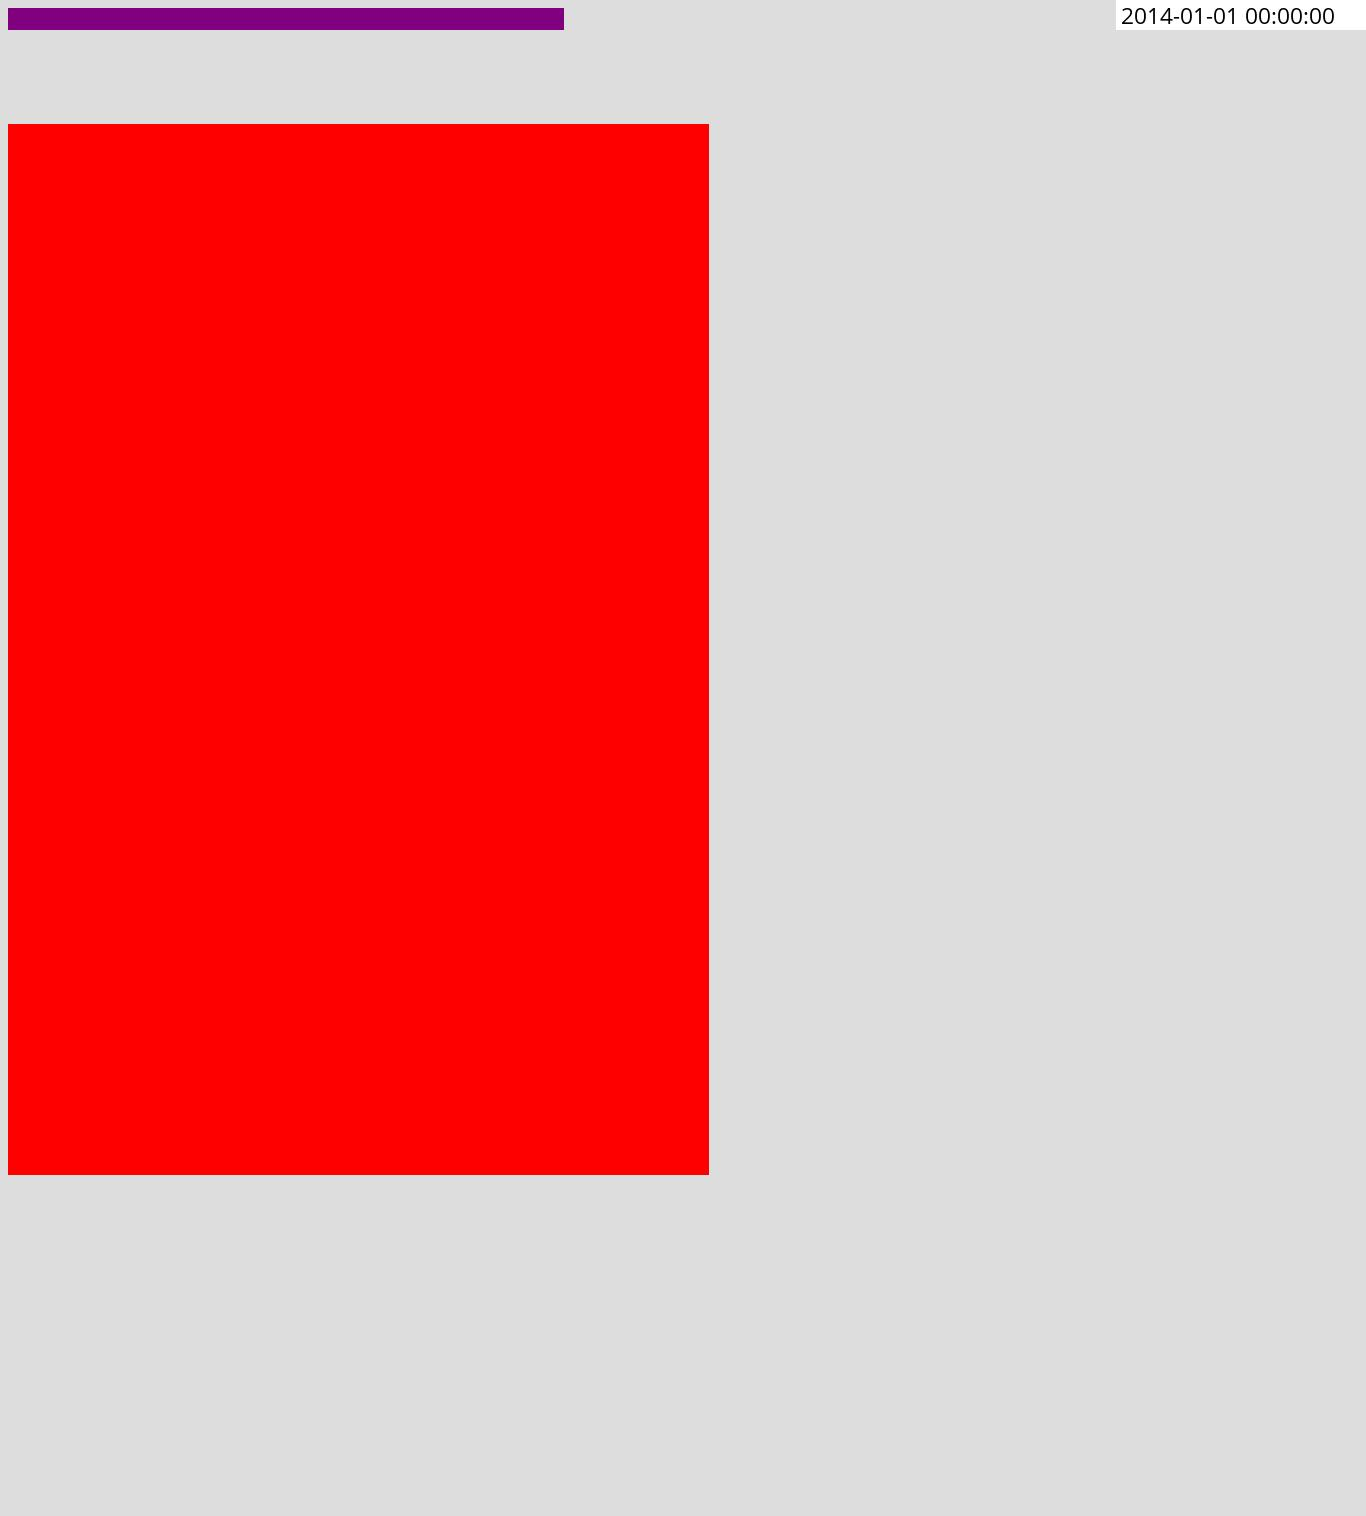
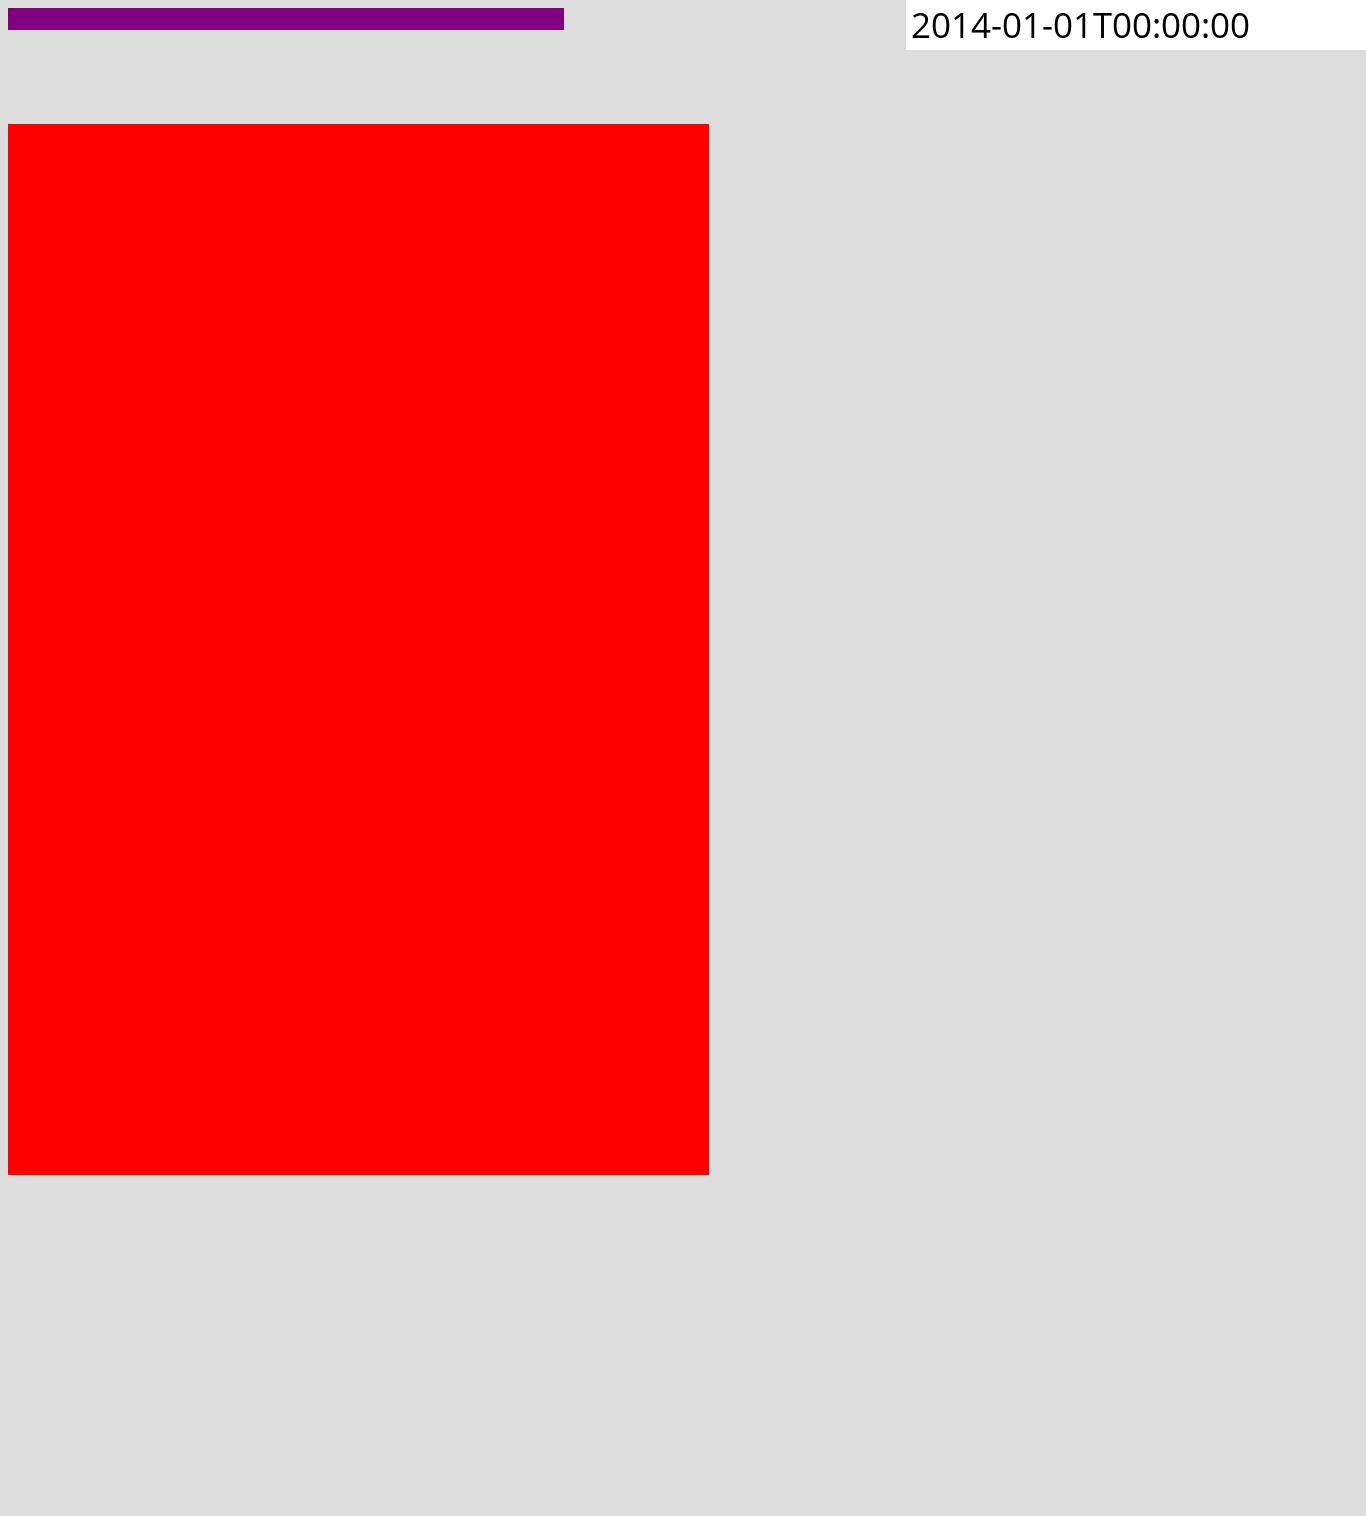
A bigger timestamp that is isoformat. Fixes #80.

Changed region(s): [[0.6457, 0.0, 1.0, 0.031]]

diff --git a/storytracker/analysis.py b/storytracker/analysis.py
@@ -64,7 +64,7 @@ class ArchivedURL(UnicodeMixin):
         self.this_directory = os.path.dirname(os.path.realpath(__file__))
         self.font = PILImageFont.truetype(
             os.path.join(self.this_directory, "fonts/OpenSans-Regular.ttf"),
-            22
+            35
         )
         # Configuration for our web browser
         self.browser_width = browser_width
@@ -622,24 +622,24 @@ class ArchivedURL(UnicodeMixin):
         with open(path, 'wb') as f:
             f.write(self.html.encode("utf-8"))
 
-    def timestamp_image(self, image):
+    def timestamp_image(self, image, width=460, height=50):
         textlayer = PILImage.new(
             "RGBA",
-            (250, 30),
-            (255,255,255,255)
+            (width, height),
+            (255, 255, 255, 255)
         )
         textdraw = PILImageDraw.Draw(textlayer)
         textsize = textdraw.textsize(
-            str(self.timestamp),
+            self.timestamp.isoformat(),
             font=self.font
         )
         textdraw.text(
             (5, 0),
-            str(self.timestamp),
+            self.timestamp.isoformat(),
             font=self.font,
             fill=(0,0,0)
         )
-        image.paste(textlayer, (image.size[0]-250, 0))
+        image.paste(textlayer, (image.size[0]-width, 0))
         return image
 
     def write_illustration_to_directory(self, path):
